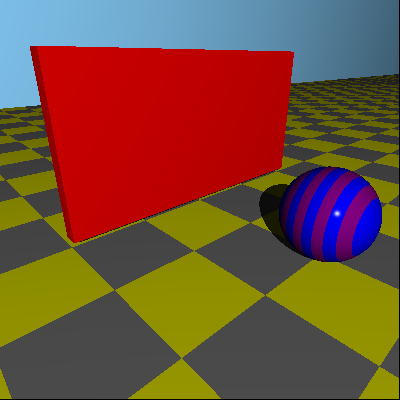
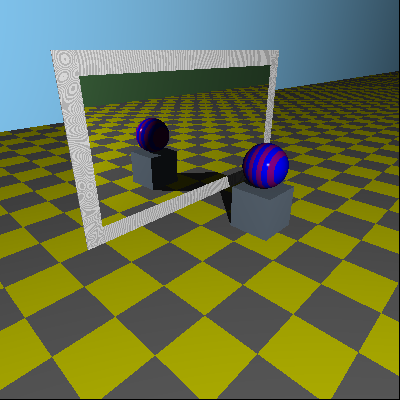
playing around

diff --git a/main.go b/main.go
@@ -489,8 +489,8 @@ func mirrors() {
 func mirror() {
 
 	// width, height := 300.0, 300.0
-	width, height := 400.0, 400.0
-	// width, height := 1000.0, 1000.0
+	// width, height := 400.0, 400.0
+	width, height := 1000.0, 1000.0
 
 	// setup world, default light and camera
 	w := tracer.NewDefaultWorld(width, height)
@@ -502,7 +502,7 @@ func mirror() {
 	})
 
 	// where the camera is and where it's pointing; also which way is "up"
-	from := tracer.NewPoint(1.3, 2, -3)
+	from := tracer.NewPoint(3.5, 3.8, -5.7)
 	to := tracer.NewPoint(-2, 0, 0)
 	up := tracer.NewVector(0, 1, 0)
 	cameraTransform := tracer.ViewTransform(from, to, up)
@@ -536,42 +536,55 @@ func mirror() {
 	// mirror1
 	cube1 := tracer.NewUnitCube()
 	cube1.SetTransform(
-		tracer.IdentityMatrix().Scale(0.1, 1, 2).Translate(-2, 1.1, 0))
-	cube1.Material().Reflective = 0
-	cube1.Material().Color = tracer.ColorName(colornames.Red)
+		tracer.IdentityMatrix().Scale(0.01, 1.5, 3).Translate(-2, 1.9, 0))
+	cube1.Material().Reflective = 1
+	cube1.Material().Color = tracer.ColorName(colornames.Black)
 	w.AddObject(cube1)
 
-	// // top border
-	// topBorder := tracer.NewUnitCube()
-	// topBorder.SetTransform(
-	// 	tracer.IdentityMatrix().Translate(-2, 2.0, 0).Scale(0.001, .2, 4))
-	// // topBorder.Material().Color = tracer.ColorName(colornames.Brown)
-	// topBorderStripes := tracer.NewStripedPattern(
-	// 	tracer.ColorName(colornames.Red), tracer.ColorName(colornames.White))
-	// topBorderStripes.SetTransform(tracer.IdentityMatrix().Scale(0.03, 1, 1).RotateY(math.Pi / 2))
-	// topBorderP := tracer.NewPertrubedPattern(topBorderStripes, 0.5)
-	// // this produces a completely different pattern than applying the transform on the inner pattern
-	// // topBorderP.SetTransform(tracer.IdentityMatrix().Scale(0.1, 1, 1).RotateY(math.Pi / 2))
-	// topBorder.Material().SetPattern(topBorderP)
-	// w.AddObject(topBorder)
+	// border
+	borderStripes := tracer.NewStripedPattern(
+		tracer.ColorName(colornames.Lightgray), tracer.ColorName(colornames.White))
+	borderStripes.SetTransform(tracer.IdentityMatrix().Scale(0.01, 1, 1).RotateY(math.Pi / 2))
+	borderP := tracer.NewPertrubedPattern(borderStripes, 0.5)
+	// this produces a completely different pattern than applying the transform on the inner pattern
+	// borderP.SetTransform(tracer.IdentityMatrix().Scale(0.1, 1, 1).RotateY(math.Pi / 2))
 
-	// // bottom border
-	// bottomBorder := tracer.NewUnitCube()
-	// bottomBorder.SetTransform(
-	// 	tracer.IdentityMatrix().Translate(-2, 0, 0).Scale(0.001, .2, 4))
-	// bottomBorderStripes := tracer.NewStripedPattern(
-	// 	tracer.ColorName(colornames.Violet), tracer.ColorName(colornames.White))
-	// bottomBorderStripes.SetTransform(tracer.IdentityMatrix().Scale(0.03, 1, 1).RotateY(math.Pi / 2))
-	// bottomBorderP := tracer.NewPertrubedPattern(bottomBorderStripes, 0.5)
-	// // this produces a completely different pattern than applying the transform on the inner pattern
-	// // topBorderP.SetTransform(tracer.IdentityMatrix().Scale(0.1, 1, 1).RotateY(math.Pi / 2))
-	// bottomBorder.Material().SetPattern(bottomBorderP)
-	// w.AddObject(bottomBorder)
+	// top border
+	topBorder := tracer.NewUnitCube()
+	topBorder.SetTransform(tracer.IdentityMatrix().Scale(0.01, .2, 3).Translate(-2, 3.6, 0))
+	topBorder.Material().SetPattern(borderP)
+	w.AddObject(topBorder)
+
+	// bottom border
+	bottomBorder := tracer.NewUnitCube()
+	bottomBorder.SetTransform(tracer.IdentityMatrix().Scale(0.01, .2, 3).Translate(-2, 0.2, 0))
+	bottomBorder.Material().SetPattern(borderP)
+	w.AddObject(bottomBorder)
+
+	// left border
+	leftBorder := tracer.NewUnitCube()
+	leftBorder.SetTransform(tracer.IdentityMatrix().Scale(0.01, 1.9, 0.2).Translate(-2, 1.9, -3.2))
+	leftBorder.Material().SetPattern(borderP)
+	w.AddObject(leftBorder)
+
+	// right border
+	rightBorder := tracer.NewUnitCube()
+	rightBorder.SetTransform(tracer.IdentityMatrix().Scale(0.01, 1.9, 0.2).Translate(-2, 1.9, 3.2))
+	rightBorder.Material().SetPattern(borderP)
+	w.AddObject(rightBorder)
+
+	// table
+	table := tracer.NewUnitCube()
+	table.SetTransform(
+		tracer.IdentityMatrix().Scale(0.5, 0.5, 0.5).Translate(0, 0.5, 0))
+	table.Material().Reflective = 0
+	table.Material().Color = tracer.ColorName(colornames.Lightslategray)
+	w.AddObject(table)
 
 	// sphere1
 	sphere1 := tracer.NewUnitSphere()
 	sphere1.SetTransform(
-		tracer.IdentityMatrix().Scale(.5, .5, .5).Translate(0, 0.5, 0))
+		tracer.IdentityMatrix().Scale(.5, .5, .5).Translate(0, 1.5, 0)) // half sphere + full cube (scaled by half())
 	// sphere1.Material().Color = tracer.ColorName(colornames.Yellow)
 	sphere1pattern := tracer.NewStripedPattern(
 		tracer.ColorName(colornames.Blue), tracer.ColorName(colornames.Purple))

diff --git a/docs/examples/mirror1.md b/docs/examples/mirror1.md
@@ -1,0 +1,107 @@
+# Mirror
+
+```go
+// width, height := 300.0, 300.0
+width, height := 400.0, 400.0
+// width, height := 1000.0, 1000.0
+
+// setup world, default light and camera
+w := tracer.NewDefaultWorld(width, height)
+w.Config.MaxRecusions = 1
+
+// override light here
+w.SetLights([]tracer.Light{
+tracer.NewPointLight(tracer.NewPoint(10, 8, -10), tracer.NewColor(1, 1, 1)),
+})
+
+// where the camera is and where it's pointing; also which way is "up"
+from := tracer.NewPoint(3.5, 3.4, -5.9)
+to := tracer.NewPoint(-2, 0, 0)
+up := tracer.NewVector(0, 1, 0)
+cameraTransform := tracer.ViewTransform(from, to, up)
+w.Camera().SetTransform(cameraTransform)
+
+// floor
+floor := tracer.NewPlane()
+// floor.Material().Color = tracer.ColorName(colornames.Gray)
+floor.Material().Specular = 0
+floor.Material().Reflective = 0
+floorP := tracer.NewCheckerPattern(tracer.ColorName(colornames.Gray), tracer.ColorName(colornames.Yellow))
+    floor.Material().SetPattern(floorP)
+w.AddObject(floor)
+
+leftWall := tracer.NewPlane()
+leftWall.Material().Color = tracer.ColorName(colornames.Lightskyblue)
+leftWall.Material().Specular = 0
+leftWall.Material().Reflective = 0
+leftWall.SetTransform(
+    tracer.IdentityMatrix().RotateZ(math.Pi/2).Translate(-15, 0, 0))
+w.AddObject(leftWall)
+
+rightWall := tracer.NewPlane()
+rightWall.Material().Color = tracer.ColorName(colornames.Lightgreen)
+rightWall.Material().Specular = 0
+rightWall.Material().Reflective = 0
+rightWall.SetTransform(
+    tracer.IdentityMatrix().RotateZ(math.Pi/2).Translate(15, 0, 0))
+w.AddObject(rightWall)
+
+// mirror1
+cube1 := tracer.NewUnitCube()
+cube1.SetTransform(
+    tracer.IdentityMatrix().Scale(0.01, 1.5, 3).Translate(-2, 1.9, 0))
+cube1.Material().Reflective = 1
+cube1.Material().Color = tracer.ColorName(colornames.Black)
+w.AddObject(cube1)
+
+// border
+borderStripes := tracer.NewStripedPattern(
+    tracer.ColorName(colornames.Violet), tracer.ColorName(colornames.White))
+borderStripes.SetTransform(tracer.IdentityMatrix().Scale(0.01, 1, 1).RotateY(math.Pi / 2))
+borderP := tracer.NewPertrubedPattern(borderStripes, 0.5)
+// this produces a completely different pattern than applying the transform on the inner pattern
+// borderP.SetTransform(tracer.IdentityMatrix().Scale(0.1, 1, 1).RotateY(math.Pi / 2))
+
+// top border
+topBorder := tracer.NewUnitCube()
+topBorder.SetTransform(tracer.IdentityMatrix().Scale(0.01, .2, 3).Translate(-2, 3.6, 0))
+topBorder.Material().SetPattern(borderP)
+w.AddObject(topBorder)
+
+// bottom border
+bottomBorder := tracer.NewUnitCube()
+bottomBorder.SetTransform(tracer.IdentityMatrix().Scale(0.01, .2, 3).Translate(-2, 0.2, 0))
+bottomBorder.Material().SetPattern(borderP)
+w.AddObject(bottomBorder)
+
+// table
+table := tracer.NewUnitCube()
+table.SetTransform( tracer.IdentityMatrix().Scale(0.5, 0.5, 0.5).Translate(0, 0.5, 0))
+table.Material().Reflective = 0
+table.Material().Color = tracer.ColorName(colornames.Lightslategray)
+w.AddObject(table)
+
+// sphere1
+sphere1 := tracer.NewUnitSphere()
+sphere1.SetTransform(
+tracer.IdentityMatrix().Scale(.5, .5, .5).Translate(0, 1.5, 0)) // half sphere + full cube (scaled by half())
+// sphere1.Material().Color = tracer.ColorName(colornames.Yellow)
+sphere1pattern := tracer.NewStripedPattern(
+    tracer.ColorName(colornames.Blue), tracer.ColorName(colornames.Purple))
+sphere1pattern.SetTransform(tracer.IdentityMatrix().Scale(0.2, 1, 1))
+sphere1.Material().SetPattern(sphere1pattern)
+w.AddObject(sphere1)
+
+canvas := w.Render()
+
+// Export
+f, err := os.Create("image.png")
+if err != nil {
+    log.Fatalln(err)
+}
+
+log.Printf("Exporting canvas to %v", f.Name())
+canvas.ExportToPNG(f)
+```
+
+![image](../../images/mirror1.png)

diff --git a/docs/reflection_notes.md b/docs/reflection_notes.md
@@ -1,0 +1,3 @@
+# Notes
+
+- Objects that are 100% reflected, should be black.
